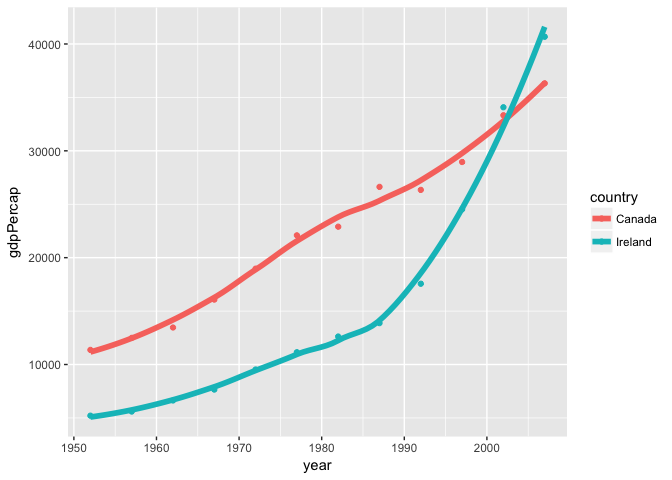
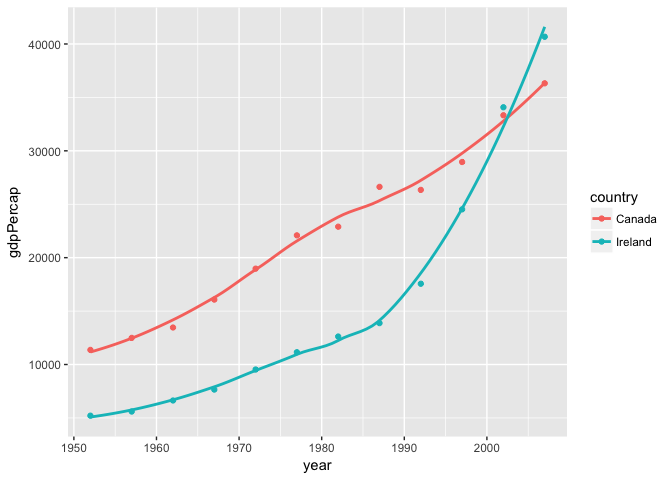
final edits

diff --git a/hw02/hw02.md b/hw02/hw02.md
@@ -594,7 +594,7 @@ ggplot (subset(gapminder, continent == "Europe"), aes(x=year, y=gdpPercap)) + ge
 ![](hw02_files/figure-html/unnamed-chunk-17-1.png)<!-- -->
 
 ***
-#### Boxplot of Canada and the Ireland using piping together of filter and select
+#### Scatterplot of Canada and the Ireland using piping together of filter and select
 ##### To keep my code tidy, I assigned my piped data to the variable z.  I filtered by Canada and Ireland and selected the data on the country name, year and gdpPercap.  I then tested for z to make sure all the data I wanted was there
 
 
@@ -625,7 +625,7 @@ z
 ## # ... with 14 more rows
 ```
 
-##### I assigned the z variable as my dataset when using ggplot and examined the change of the two countries' gdpPercap by year.  I assigned the variable p as my ggplot x and y data. To make it look more informative I assigned different colours for the two countries and included a line of best fit.  I used the geom_point and geom_smooth functions for the colours and line of best fit, and also utilized the resources from Jenny's [ggplot tutorial](https://github.com/jennybc/ggplot2-tutorial/blob/master/gapminder-ggplot2-scatterplot.md)
+##### I assigned the z variable as my dataset when using ggplot and examined the change of the two countries' gdpPercap by year.  I assigned the variable p as my ggplot x and y data. To make it look more informative I assigned different colours for the two countries and included a line of best fit.  I used the geom_point function to add coloured points and the geom_smooth to add a line of best fit (with no error bars), and also utilized the resources from Jenny's [ggplot tutorial](https://github.com/jennybc/ggplot2-tutorial/blob/master/gapminder-ggplot2-scatterplot.md)
 
 
 ```r
@@ -646,7 +646,7 @@ p + geom_point(aes(colour = country))
 ![](hw02_files/figure-html/unnamed-chunk-22-1.png)<!-- -->
 
 ```r
-p + aes(colour = country) + geom_point() + geom_smooth(lwd= 2, se= FALSE)
+p + aes(colour = country) + geom_point() + geom_smooth(se= FALSE)
 ```
 
 ```
@@ -682,7 +682,32 @@ filter(gapminder, country == c("Rwanda", "Afghanistan"))
 ## 12      Rwanda    Africa  2002  43.413  7852401  785.6538
 ```
 
-##### It appears the code is correct, but if you look closer there are five year intervals missing from both datasets eg. Afghanistan has data for 1957 but not 1962, or 1972 etc.  The reason for this is that there are not using the "country" %in% "function which finds all instances in the datasets where the data includes Rwanada and Afghanistan.  Using the filter function only for Afghanistan and Rwanda filters rows based on the couuntry and ends up alternating between Rwanada and Afghanistan for each year.
+##### It appears the code is correct, but if you look closer there are five year intervals missing from both datasets eg. Afghanistan has data for 1957 but not 1962, or 1972 etc.  The reason for this is that there are not using the "country" %in% "function which finds all instances in the datasets where the data includes Rwanada and Afghanistan.  Using the filter function only for Afghanistan and Rwanda filters rows based on the country and ends up alternating between Rwanada and Afghanistan for each year. We can test this by using the same code but switching so Afghanistan is first.
+
+
+```r
+filter(gapminder, country == c("Afghanistan", "Rwanda"))
+```
+
+```
+## # A tibble: 12 x 6
+##        country continent  year lifeExp      pop gdpPercap
+##         <fctr>    <fctr> <int>   <dbl>    <int>     <dbl>
+##  1 Afghanistan      Asia  1952  28.801  8425333  779.4453
+##  2 Afghanistan      Asia  1962  31.997 10267083  853.1007
+##  3 Afghanistan      Asia  1972  36.088 13079460  739.9811
+##  4 Afghanistan      Asia  1982  39.854 12881816  978.0114
+##  5 Afghanistan      Asia  1992  41.674 16317921  649.3414
+##  6 Afghanistan      Asia  2002  42.129 25268405  726.7341
+##  7      Rwanda    Africa  1957  41.500  2822082  540.2894
+##  8      Rwanda    Africa  1967  44.100  3451079  510.9637
+##  9      Rwanda    Africa  1977  45.000  4657072  670.0806
+## 10      Rwanda    Africa  1987  44.020  6349365  847.9912
+## 11      Rwanda    Africa  1997  36.087  7212583  589.9445
+## 12      Rwanda    Africa  2007  46.242  8860588  863.0885
+```
+
+##### Indeed we see that the same thing happens where the filter function alternates selecting for the two countries, this time starting with Afghanistan in 1952, then Rwanada 1957 etc.  Using the %in% function as I mentioned above will retrieve all the data we need.
 
 
 ```r
@@ -859,13 +884,17 @@ s3 %>%
 ## # ... with 132 more rows
 ```
 
-##### From this table I can see that the highest population growths from the gapminder data set.  The largest is China which grew over a 107M people in a span of five years. The top four are from Asia.  If I wanted to see the highest pop growth by continent I would first use filter and min rank to select the top entry of each group, which is convieniently put together in the function top n.  This lets you select for the top n rows and you assign the wt as being the newly created variable best_pop_delta
+##### From this table I can see that the highest population growths from the gapminder data set.  The largest is China which grew over a 107M people in a span of five years. The top four are from Asia.  If I wanted to see the highest pop growth by continent I would first use filter and max rank to select the top entry of each group, which is convieniently put together in the function top n.  This lets you select for the top n rows and you assign the wt as being the newly created variable best_pop_delta.  As we have already grouped by continent earlier it follows here.
 
 
 ```r
-s3 %>%
+s4 <- s3 %>%
   top_n(1, wt = best_pop_delta) %>% 
   arrange (desc(best_pop_delta))
+```
+
+```r
+s4
 ```
 
 ```
@@ -880,7 +909,7 @@ s3 %>%
 ## 5   Oceania     Australia        1304736
 ```
 
-##### From this you can see the sharpest population increases in the other continents, with the smallest occuring in Australia which is in Oceania.  
+##### From this you can see the highest population increases in the other continents, with the smallest occuring in Australia which is in Oceania.  In their best 5 year stretch, Australia added 1.3M to it's population total.
 ##### I really enjoyed this exercise, a modified version of which is in the [dplyr functions in a single dataset](http://stat545.com/block010_dplyr-end-single-table.html#grand-finale) on the stats 545 website
 
 
